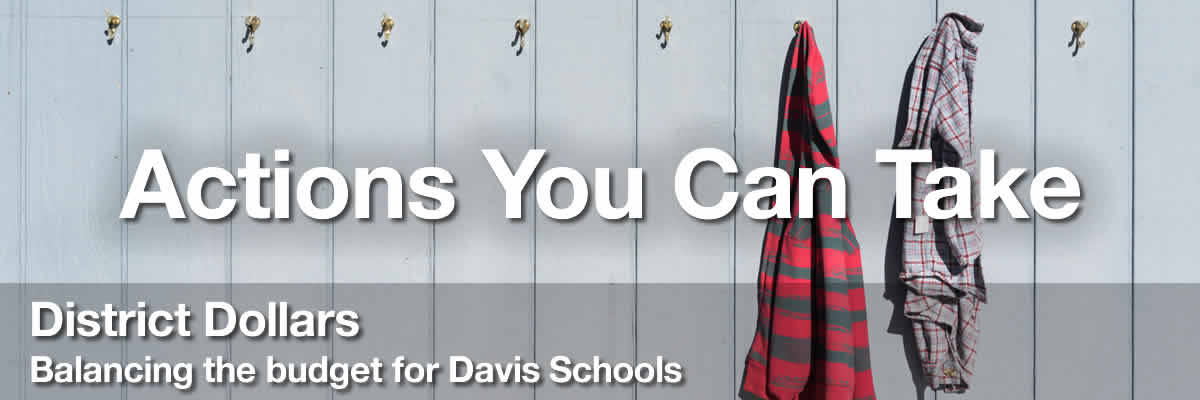
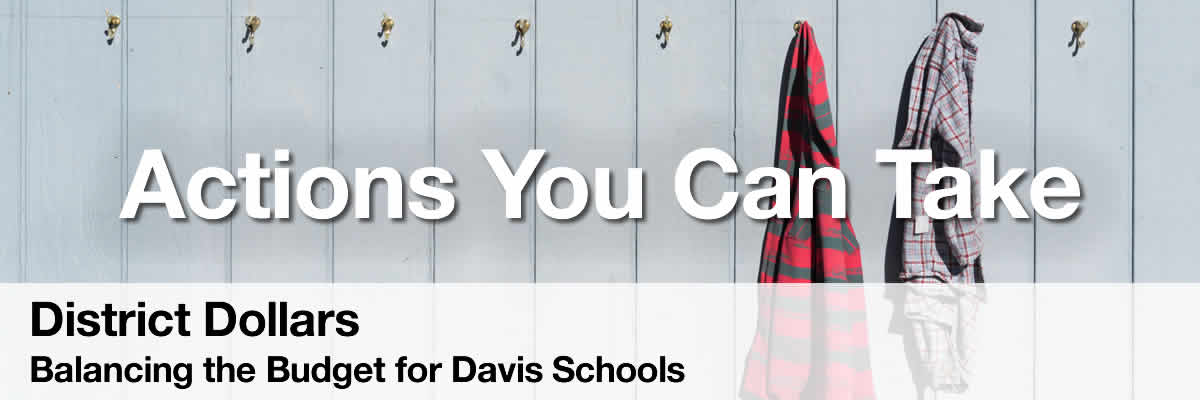
Lighten images

Changed region(s): [[0.0, 0.69, 1.0, 1.0]]

diff --git a/index.html b/index.html
@@ -50,25 +50,25 @@
         </div>
 
           <ul class="nav nav-pills nav-justified">
-            <li class="active"><a href="index.html">Welcome</a></li>
-            <li><a href="funding.html">Funding Davis Schools</a></li>
-            <li><a href="parcel.html">Davis Parcel Taxes</a></li>
-            <li><a href="timeline.html">Budget Timeline</a></li>
-            <li><a href="values.html">What Do You Value?</a></li>
-            <li><a href="actions.html">Actions You Can Take</a></li>
+            <li class="active"><a href="#">Welcome</a></li>
+            <li><a href="funding">Funding Davis Schools</a></li>
+            <li><a href="parcel">Davis Parcel Taxes</a></li>
+            <li><a href="timeline">Budget Timeline</a></li>
+            <li><a href="values">What Do You Value?</a></li>
+            <li><a href="actions">Actions You Can Take</a></li>
           </ul>
 
         <h1>Welcome to District Dollars</h1>
 
         <div class="row">
             <div class="col-md-10 col-md-offset-1">
-                <h3>Updated September 2016; includes projected budgets through 2019.</h3>
+                <h3 style="font-size:28px">Updated September 2016; includes projected budgets through 2019.</h3>
 
                 <p>Revenue from Proposition 30 and improving economic conditions brought another good year for California schools in 2016. Davis schools received an increase to fund lower class sizes, new and restored programs for students, improved compensation for employees, expanded professional learning opportunities, and technology to enhance classroom instruction.</p>
 
                 <p>Now in the fourth year of implementation, the Local Control Funding Formula sets key state priorities for all students, but school districts choose the programs that are most likely to benefit their students. The LCFF provides more funding for students who come from low-income families, those learning English and those living in foster care.</p>
 
-                <p>With Measures C and E set to expire in 2017, the District placed Measure H on the November 2016 ballot.  This measure will replace the expiring taxes with a single eight-year parcel tax of $620/year, raising $9.5 million each year to continue outstanding programs for Davis students.</p>
+                <p>With Measures C and E set to sunset in 2017, the District placed Measure H on the November 2016 ballot.  This measure will replace the expiring taxes with a single eight-year parcel tax of $620/year, raising $9.5 million each year to continue valued programs for Davis students.</p>
 
                 <p><em>District Dollars</em> is a web-based, interactive program to help you understand the DJUSD budget situation.</p>
 
